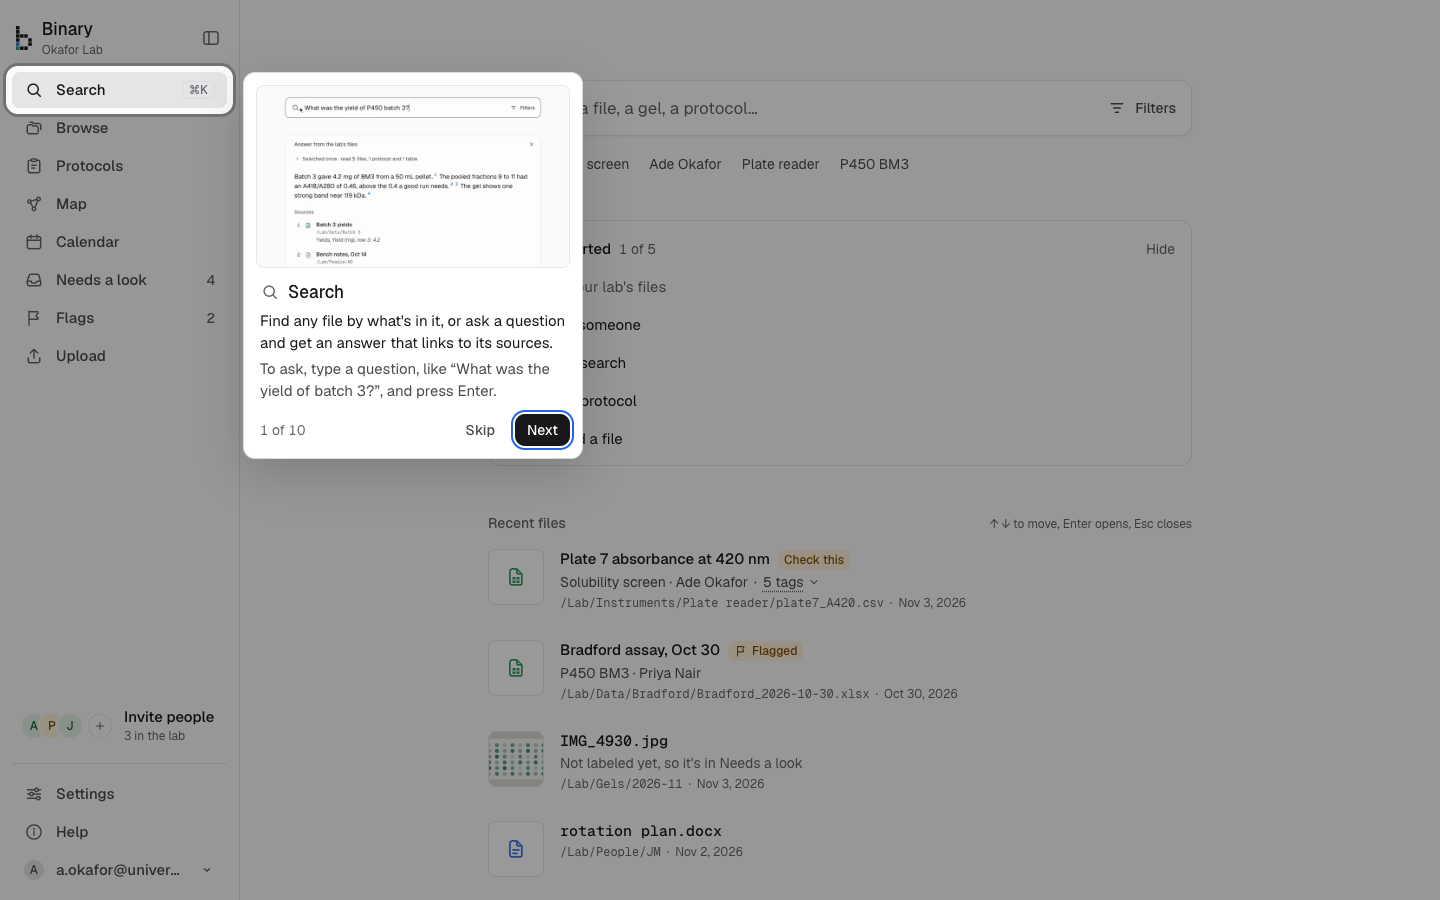
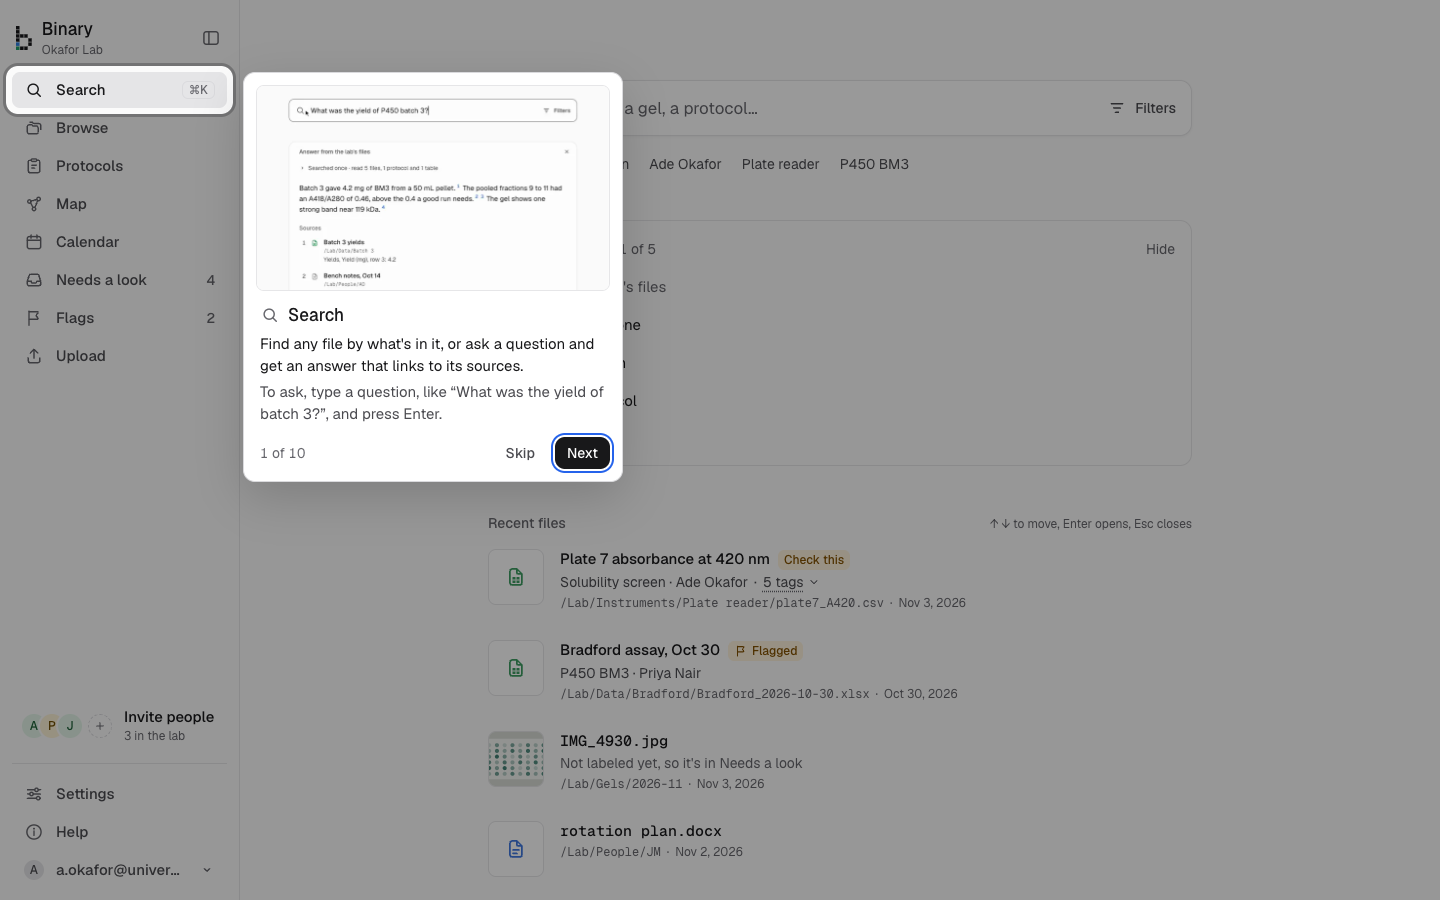
tour screenshots again, cold read in decisions

Changed region(s): [[0.1562, 0.0622, 0.4375, 0.56]]

diff --git a/docs/decisions.md b/docs/decisions.md
@@ -567,3 +567,5 @@ The operator: "We probably need to update the Take a Tour for all the different 
 - **Where to start.** A finished tour (not a skipped one) ends on one line beside Protocols, or under the phone's menu button: "New here? Start with Protocols to learn a technique, or Search to find something." with Got it. It's a fourth kind of overlay, so a hint waits behind it, and it isn't stored: it shows once, right then, and never comes back.
 - **Help answers are grouped.** The ⓘ menu is now three rows: Take the tour, How do I…, Getting started. How do I… opens the help modal on every question under five headings (Finding things, Protocols, Plans, results and uploads, Charts, Your lab); an answer has a back link to the list and the rest of its group under it. New answers: ask the lab, read the map, learn a technique, use the calendar (plans, the views, jumping to a month), answer a flag, invite someone, and the chart steps (mark the wells, read unknowns off a standard curve, get an IC50, check if a difference is real, export for a paper). Each is one or two sentences; the test and export answers have no clip, since the words say it. The modal now takes focus itself rather than ringing its close button.
 - **Clips.** New: `ask`, `browse`, `protocols`, `map`, `calendar`, `flags`, `help` for the steps; `calendar-views`, `invite`, `chart-wells`, `chart-curve`, `chart-ic50` for answers. 25 to 120 KB each as MP4 or WebM, like the earlier ones. Fixture pages link to the real routes, so `record-clips.mjs` takes `rewrites` per clip and loads the fixture page when a matching link is clicked (Browse's folders, a protocol, a flag). A filtered run had dropped any clip id with a digit from `clip-sizes.ts`; fixed. Unchanged and not re-recorded: `search` (the welcome), `open`, `fix`, `needs-look`, `upload`, `talk-through`, `video`, `chart`, `settings`.
+
+Cold read: a fresh agent playing a first-year student had only the eleven desktop screenshots (ten steps and the start line) and four tasks. It answered all four from the tour: learn to run a gel (Protocols, sure, from "Start here when you learn a technique, like running a gel"), book the plate reader (Calendar, fairly sure), results that look wrong (Flags, sure) and ask the Bradford's wavelength (Search, type the question, Enter; fairly sure). It couldn't tell how to start a booking, mixed up Needs a look and Flags, didn't know what kind of recording Upload takes or why it would use the map, and found the clips too small to read in a card. Changed: the Calendar step now says "To book the plate reader, choose New entry and pick it as the instrument."; Needs a look is "Files Binary couldn't label, like a photo with no name."; Upload says "voice recording"; the Map step says why ("To see all of one experiment or person in one place, click its dot."); the desktop card is 380 px with a taller clip. Left as they are: words the tour doesn't teach (tags, Check this, R², Dropbox), which belong to the screens and their hints, and whether a new student needs Upload or Settings, which the tour answers by saying when each is used.
